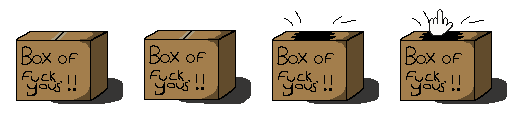
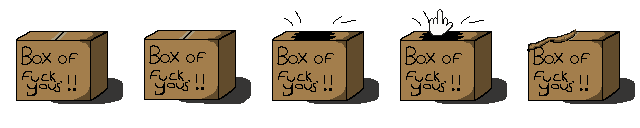
Ofline cutscene tweaks

diff --git a/Scuzzy/Source/CutSceneManager.cpp b/Scuzzy/Source/CutSceneManager.cpp
@@ -1,9 +1,9 @@
 #include "Source/CutSceneManager.hpp"
 #include "Source/GameState.hpp"  // full definition available — no cycle, this is a .cpp
+#include <vector>
+#include <SDL2/SDL.h>
 
-
-
-
+extern GameState gameState;
 
 // Orchestrator class managing the cutscene flow
 
@@ -82,5 +82,50 @@ bool DialogueAction::Update(float deltaTime) {
 
 void DialogueAction::Exit() {
     printf("Dialogue action completed.\n");
+    //gameState.inCutScene = false; // signal cutscene manager to advance to next action or end cutscene
+}
+
+
+ExplosionAction::ExplosionAction(Mix_Chunk* explosionsound, std::shared_ptr<LTexture> texture, int frameCount, std::vector<SDL_Rect> clips, Vector2f position)
+ : m_Explosion(explosionsound), m_Texture(texture), FRAME_COUNT(frameCount), m_Clips(clips), m_Pos(position) { 
+    m_CollisionBox = {m_Pos.x, m_Pos.y, m_Clips[0].w,m_Clips[0].h };
+ }
+
+void ExplosionAction::Enter() {
+    //play explosion sound, let the entity render itself fast as possible.
+    Mix_PlayChannel(-1, m_Explosion, 0);
+    fired = true;
+}
+
+bool ExplosionAction::Update(float deltaTime) {
+    SDL_Rect srcRect;
+    if (fired && !m_AnimationFinished) {
+                // Calculates index of frame to use in animation.
+                lastFrameTime += deltaTime * 1000.0f; // was 1000
+                if (lastFrameTime >= 300) { // frameDuration = 100ms ?????
+                    currentFrameCount = (currentFrameCount + 1) % FRAME_COUNT;
+                    lastFrameTime = 0;
+                    if (currentFrameCount == 0) {
+                        m_AnimationFinished = true;
+
+                        return true;
+                    }	
+                }
+        srcRect = m_Clips[currentFrameCount]; // render the sprite at index of animation
+        int screenX = (m_Pos.x - gameState.cameraRect.x);
+        int screenY = (m_Pos.y - gameState.cameraRect.y);
+        //m_Texture->render(screenX, screenY, &srcRect);
+
+        SDL_Rect renderQuad = { screenX, screenY, srcRect.w, srcRect.h };
+        //SDL_RenderCopy(gRenderer, m_Texture->getTexture(), &srcRect, &renderQuad);
+        m_Texture->render(screenX, screenY, &srcRect);
+        
+    }
+    return false;
+
+}
+
+void ExplosionAction::Exit() {
+    printf("esploded action completed.\n");
     //gameState.inCutScene = false; // signal cutscene manager to advance to next action or end cutscene
 }

diff --git a/Scuzzy/Source/Helper.cpp b/Scuzzy/Source/Helper.cpp
@@ -19,6 +19,8 @@ extern std::vector<SDL_Rect*> collisionBoxes;
 extern std::vector<SDL_Rect> staticCollisionBoxes;
 extern std::vector<SDL_Rect> clips;
 
+extern Mix_Chunk* gExplosionSound;
+
 extern Camera camera;
 
 extern std::shared_ptr<LTexture> getTexture(const std::string& filename);
@@ -131,6 +133,32 @@ Vector2f LoadLevel(std::string Room, LTexture* Map) {
 			cutsceneActions.push_back(std::make_unique<MoveEntityAction>(triggerEntity.get(), Vector2f(800, 300), 100.0f));
 			std::shared_ptr<NPC> triggerNPC = std::make_shared<TriggerNPC>(triggerEntity, triggerCB, std::move(cutsceneActions));
 			triggerEntity->setNPC(triggerNPC);
+
+
+						// CutScene trigger2 
+			Vector2f triggerPos2(2000, 1100);
+			SDL_Rect triggerRect2 = { 0, 0, 72, 100 };
+			SDL_Rect triggerCB2 = { triggerPos2.x, triggerPos2.y, 128, 128 };
+			std::vector<SDL_Rect> explClips;
+			for (int i = 0; i < 15; i++) {
+				explClips.push_back( SDL_Rect{ 72*i, 0, 72, 100});
+			}
+
+			//auto triggerEntity = std::make_shared<Entity>(triggerPos, triggerCB, triggerRect, 1, 401);
+			auto triggerEntity2 = std::make_shared<Entity>(
+				triggerPos2, triggerCB2, triggerRect2,
+				nullptr,           // or a real texture
+				1,                 // framecount
+				explClips,  // clips
+				402                // EntityID
+			);
+			Entities.push_back(triggerEntity2);
+			//collisionBoxes.push_back(&triggerEntity->m_Collider);
+			std::vector<std::unique_ptr<CutsceneAction>> cutsceneActions2;
+			cutsceneActions2.push_back(std::make_unique<DialogueAction>(gameState, std::vector<std::string>{"You stepped on a cutscene trigger!", "you stepped on it so hard that it died."}));
+			cutsceneActions2.push_back(std::make_unique<ExplosionAction>(gExplosionSound, getTexture("data/RealisticExplosion72x100x18.png"), 15, explClips, triggerPos2));
+			std::shared_ptr<NPC> triggerNPC2 = std::make_shared<TriggerNPC>(triggerEntity2, triggerCB2, std::move(cutsceneActions2));
+			triggerEntity2->setNPC(triggerNPC2);
 		
 
 
@@ -248,7 +276,15 @@ Vector2f LoadLevel(std::string Room, LTexture* Map) {
 			SDL_Rect signCB = { int(signpos.x + 25), int(signpos.y + 25), int(signRect.w - 45), int(signRect.h - 55) };
 			auto signentity = std::make_shared<Entity>(signpos, signCB, signRect, getTexture("data/hintsign.png"), 1, clips, 2);
 			Entities.push_back(signentity);
-			std::vector<std::string> dialogue = { "Hello, I'm a fucking sign. ufck you" };
+			std::vector<std::string> dialogue = { "Hello, I'm a fucking sign. ufck you" ,
+				 "TODO: 1) better projectiles, since bounding box was implimented.",
+				 "2) CutScenes Implimented, so make some god damn cutscenes.",
+				 "3) Wacky Dreamlike Situations, word play. ",
+				 "4) make some god damn maps ",
+				 " 5) what the hell is the main story",
+				 "6) fight action menu needs heavy rework. Make undertale/Deltarune style actions actually do somehting. ",
+				 "7) decide if sparing will be a thing here."
+				};
 			std::shared_ptr<NPC> signnpc = std::make_shared<SIGNNPC>(dialogue, signentity);
 			signentity->setNPC(signnpc);
 

diff --git a/Scuzzy/Source/CutSceneManager.hpp b/Scuzzy/Source/CutSceneManager.hpp
@@ -7,6 +7,7 @@
 #include <cstdio>
 
 #include "Source/Entity.hpp"
+#include "SDL2/SDL_mixer.h"
 
 class GameState; // Forward declaration
 
@@ -114,6 +115,27 @@ private:
     size_t m_CurrentLine = 0;
 public:
     DialogueAction(GameState& gs, const std::vector<std::string>& lines);
+    void Enter() override;
+    bool Update(float deltaTime) override;
+    void Exit() override;
+};
+
+
+class ExplosionAction : public CutsceneAction {
+public:
+    SDL_Rect m_CollisionBox;
+    std::shared_ptr<LTexture> m_Texture;
+    Mix_Chunk* m_Explosion = NULL;
+    bool fired = false;
+    bool m_AnimationFinished = false;
+    int lastFrameTime = 0;
+    int currentFrameCount = 1;
+    int FRAME_COUNT = 0;
+    SDL_Rect srcRect = {};
+    std::vector<SDL_Rect> m_Clips;
+    Vector2f m_Pos;
+
+    ExplosionAction(Mix_Chunk* explosionsound, std::shared_ptr<LTexture> texture, int frameCount, std::vector<SDL_Rect> clips, Vector2f position);
     void Enter() override;
     bool Update(float deltaTime) override;
     void Exit() override;

diff --git a/Scuzzy/Source/Item.cpp b/Scuzzy/Source/Item.cpp
@@ -5,13 +5,26 @@
 extern std::vector<std::shared_ptr<Entity>> Entities;
 
 int BandAid::Use() {
+	if (gameState.HP >= gameState.maxHP) {
+			gameState.Text = { "You dont need to use that right now." };
+			//gameState.textAvailable = true; // no need to, already handled.
+			gameState.shouldAnimateText = true;
+			gameState.currentDisplayText = "";
+			gameState.textSoundEffectTick = 0; // reset text sound effect timer for new dialogue
+		return 1;
+	}
     gameState.HP += 5;
-    return 1;
+	// TODO: healing sound effect here. 
+    return 0;
 }
 
 int Key::Use() {
     //gameState.money += 10;
 	// m_DoorID
+	// this finds the door using the Entities Array. I dont know if I want that.
+	// Since the player has to go to the door, should simply having the key unlock it already ? or should the player use the key at the door?
+	// right now the player gets the key item, and using it anywhere will unlock the door. But it has to be in the current level. 
+	// The Key item holds the Door's ID, so the door doesnt have to be a door, it could be a puzzle.
 	for (auto& entity : Entities)
 	{
 		auto doorNPC = std::dynamic_pointer_cast<DoorNPC>(entity->m_NPC);
@@ -24,17 +37,17 @@ int Key::Use() {
 
 			// triggler dialogue about unlocking door.
 			gameState.Text = { "You used the key to unlock the door!" };
-			gameState.textAvailable = true;
+			//gameState.textAvailable = true; // no need to trigger a text box, the MenuSystem goes to the response already.
 			gameState.shouldAnimateText = true;
 			gameState.currentDisplayText = "";
 			gameState.textSoundEffectTick = 0; // reset text sound effect timer for new dialogue
-
+			// TODO: Door sound effects here?
 			return 0;
 		}
 	}
 	// no door was found.
 	gameState.Text = { "You used the key, but nothing happened." };
-	gameState.textAvailable = true;
+	//gameState.textAvailable = true;
 	gameState.shouldAnimateText = true;
 	gameState.currentDisplayText = "";
 	gameState.textSoundEffectTick = 0; // reset text sound effect timer for new dialogue

diff --git a/Scuzzy/Source/TestNPC.hpp b/Scuzzy/Source/TestNPC.hpp
@@ -300,3 +300,21 @@ public:
 
 
 };
+
+
+
+// class ExplosionNPC : public NPC {
+// public:
+// bool fired = false;
+//     ExplosionNPC(std::shared_ptr<Entity> entity) : NPC(entity, {}) {}
+
+//     void Update(float deltaT, Camera CameraRect, SDL_Rect PlayerPos) override  {
+//         if (!fired) {
+//             fired = true;
+//             // play sound once. animate once. 
+            
+//         }
+//         return;
+        
+//     }
+// };

diff --git a/Scuzzy/Source/Enemies.hpp b/Scuzzy/Source/Enemies.hpp
@@ -72,13 +72,13 @@ public:
 
 		m_Actions = { "info", "sit", "kick.?" };
 
-		m_ActionResponse = { "STATUS: .. its a box..?",
-			"You sat on the box, it left a dent in it.",
+		m_ActionResponse = { "It's a box. The label says it's full of \"Fuck You\". I wonder what's inside? It's probably full of \"Fuck You\".",
+			"You sat on the box with your whole ass. Your voluminous cheeks left a deep imprint.",
 			"WHAM! you left a big dent in its fleshy cardboard." };
 
 		m_EnemyFightSpriteSheet = getTexture("data/box_fuck_u_ari_1.png");
 
-		m_EnemySpriteClips = { { 0,0,128,128 }, { 128,0,128,128 }, { 128 * 2,0,128,128 }, { 128 * 3,0,128,128 } };
+		m_EnemySpriteClips = { { 0,0,128,128 }, { 128,0,128,128 }, { 128 * 2,0,128,128 }, { 128 * 3,0,128,128 }, { 128 * 4,0,128,128 } };
 
 		FRAME_COUNT = 4;
 
@@ -94,6 +94,7 @@ public:
 	}
 
 	std::string FightActionResponse(int actionIndex) override {
+		printf("BoxOfFuckYou FightActionResponse called with actionIndex: %d\n", actionIndex);
 		// by default, return the action response at the given index.
 		if (actionIndex < 0 || actionIndex >= m_ActionResponse.size()) {
 			return "Invalid action.";
@@ -104,6 +105,9 @@ public:
 		}
 		// increase silly mode?
 		if (actionIndex == 1) {
+			//m_Entity->m_SpriteRect = { 128*4, 0, 128, 128 };
+			this->currentFrameCount = 4;
+			this->m_animationDone = true;
 			if (gameState.DebugMode) {
 				printf("Silly mode INCREASED!!!!!!!!!!");
 			}

diff --git a/Scuzzy/Source/main.cpp b/Scuzzy/Source/main.cpp
@@ -115,6 +115,8 @@ Mix_Chunk* gTextCharSound7 = NULL; // character 2 a
 Mix_Chunk* gTextCharSound8 = NULL; // character 2 b
 Mix_Chunk* gTextCharSound9 = NULL; // character 2 c
 
+Mix_Chunk* gExplosionSound = NULL;
+
 //Rendered TEXT texture
 LTexture gTextTexture;
 
@@ -136,6 +138,7 @@ SDL_Rect gSpriteClips[WALKING_ANIMATION_FRAMES];
 LTexture gSpriteSheetTexture;
 LTexture Map;
 LTexture deathScreen;
+
 
 // GRID design for player collision detection.
 // The idea behind this is to check collision's player's rect when they move.
@@ -754,6 +757,8 @@ bool loadMedia()
 	gTextCharSound8 = Mix_LoadWAV("data/mus/entalk8.wav");
 	gTextCharSound9 = Mix_LoadWAV("data/mus/entalk9.wav");
 
+	gExplosionSound = Mix_LoadWAV("data/mus/snd_badexplosion.wav");
+
 
 
 	LoadSave();
@@ -981,6 +986,7 @@ void update_camera(int player_x, int player_y, int map_width, int map_height) {
         // map shorter than screen — center it
         camera.y = -((screenheight - scaledMapH) / 2.0f);
     }
+	gameState.cameraRect = {int(camera.x), int(camera.y), camera.width, camera.height};
 }
 
 
@@ -1635,7 +1641,7 @@ int main(int argc, char* args[])
 					gameState.MapoffsetX = center_offset_x;
 					gameState.MapoffsetY = center_offset_y;
 					update_camera(player.GetPosX(), player.GetPosY(), Map.getWidth(), Map.getHeight());
-					printf("AFTER update_camera: camX=%.1f camY=%.1f\n", camera.x, camera.y);
+					//printf("AFTER update_camera: camX=%.1f camY=%.1f\n", camera.x, camera.y);
 
 					float mapScale = gameState.mapScaling; // or whatever scale factor matches Tiled's appearance
 					camera.zoom = mapScale; // set camera zoom for worldToScreen calculations

diff --git a/Scuzzy/Source/MenuSystem.cpp b/Scuzzy/Source/MenuSystem.cpp
@@ -848,8 +848,11 @@ void handleItemOptionsMenuSelection(SDL_Event event) {
 				gameState.textIndex = 0; // Reset text index
 
 				//UseItem(gameState.Inventory[gameState.selectionIndex]); // Use the item
-                gameState.Inventory.at(gameState.selectionIndex)->Use(); // refactored to use item class method
-                gameState.Inventory.erase(gameState.Inventory.begin() + gameState.selectionIndex); // Remove the item from inventory
+                 if (!gameState.Inventory.at(gameState.selectionIndex)->Use()) { // 0 on item used. 
+                        gameState.Inventory.erase(gameState.Inventory.begin() + gameState.selectionIndex); // Remove the item from inventory
+                 } // refactored to use item class method
+                // TODO: Maybe items should decide if they get deleted from the inventory.....
+                //gameState.Inventory.erase(gameState.Inventory.begin() + gameState.selectionIndex); // Remove the item from inventory
 				//gameState.Inventory.erase(gameState.Inventory.begin() + gameState.selectionIndex); // Remove the item from inventory
                 lastMenuState = INVENTORY_MENU;
                 currentMenu = RESPONSE;

diff --git a/Scuzzy/Source/Player.cpp b/Scuzzy/Source/Player.cpp
@@ -594,7 +594,8 @@ void Player::handleEvent(SDL_Event& e, float deltaTime) {
 }
 
 
-
+/// @brief This is a fix for weird movement bugs. It's basically spam called to stop all player movements while in/exiting menus.
+/// @param initPos 
 void Player::reset(Vector2f initPos) {
 	//printf("Player::reset called.\n");
 	m_PosX = initPos.x;
@@ -608,7 +609,7 @@ void Player::reset(Vector2f initPos) {
 	m_Collider = { m_PosX + 40, m_PosY + 60, 50, 40 };
 	m_HeartCollider = { int(m_HeartPos.x) + 16, int(m_HeartPos.y) + 16, 20, 20 };
 	gameState.dead = false;
-	printf("Player reset to position (%d, %d)\n", m_PosX, m_PosY);
+	//printf("Player reset to position (%d, %d)\n", m_PosX, m_PosY);
 
 }
 

diff --git a/Scuzzy/Source/Player.hpp b/Scuzzy/Source/Player.hpp
@@ -76,9 +76,10 @@ public:
 
 	int m_PosX, m_PosY;
 	int m_VelX, m_VelY;
+	SDL_Rect m_Collider;
 private:
 	
-	SDL_Rect m_Collider;
+	
 	//LTexture CurrentSprite;
 	LTexture SpriteSheet;
 	

diff --git a/Scuzzy/Source/Enemy.cpp b/Scuzzy/Source/Enemy.cpp
@@ -136,7 +136,7 @@ void Enemy::Update(float deltaT, int screenheight, int screenwidth ) {
         frameDuration = 100;
 		float scaled = this->HP / float(this->m_MaxHP);
 		frameDuration = 100 * (1.0f + (1.0f - scaled)); // as HP gets lower, frame duration gets shorter, making the animation faster and more frantic.
-        while (lastFrameTime >= frameDuration) {
+        while (lastFrameTime >= frameDuration && !m_animationDone) {
             currentFrameCount = (currentFrameCount + 1) % /*this->m_Entity->FRAME_COUNT*/ 4;
             //lastFrameTime = 0;
             lastFrameTime -= frameDuration;

diff --git a/Scuzzy/Source/Enemy.hpp b/Scuzzy/Source/Enemy.hpp
@@ -69,7 +69,7 @@ public:
 	Uint32 lastFrameTime = 0;
 	Uint32 frameDuration = 100; // Time each frame is displayed (milliseconds)
 	int FRAME_COUNT = 0; // number of frames in animation.
-	
+	bool m_animationDone = false;
 };
 
 /*